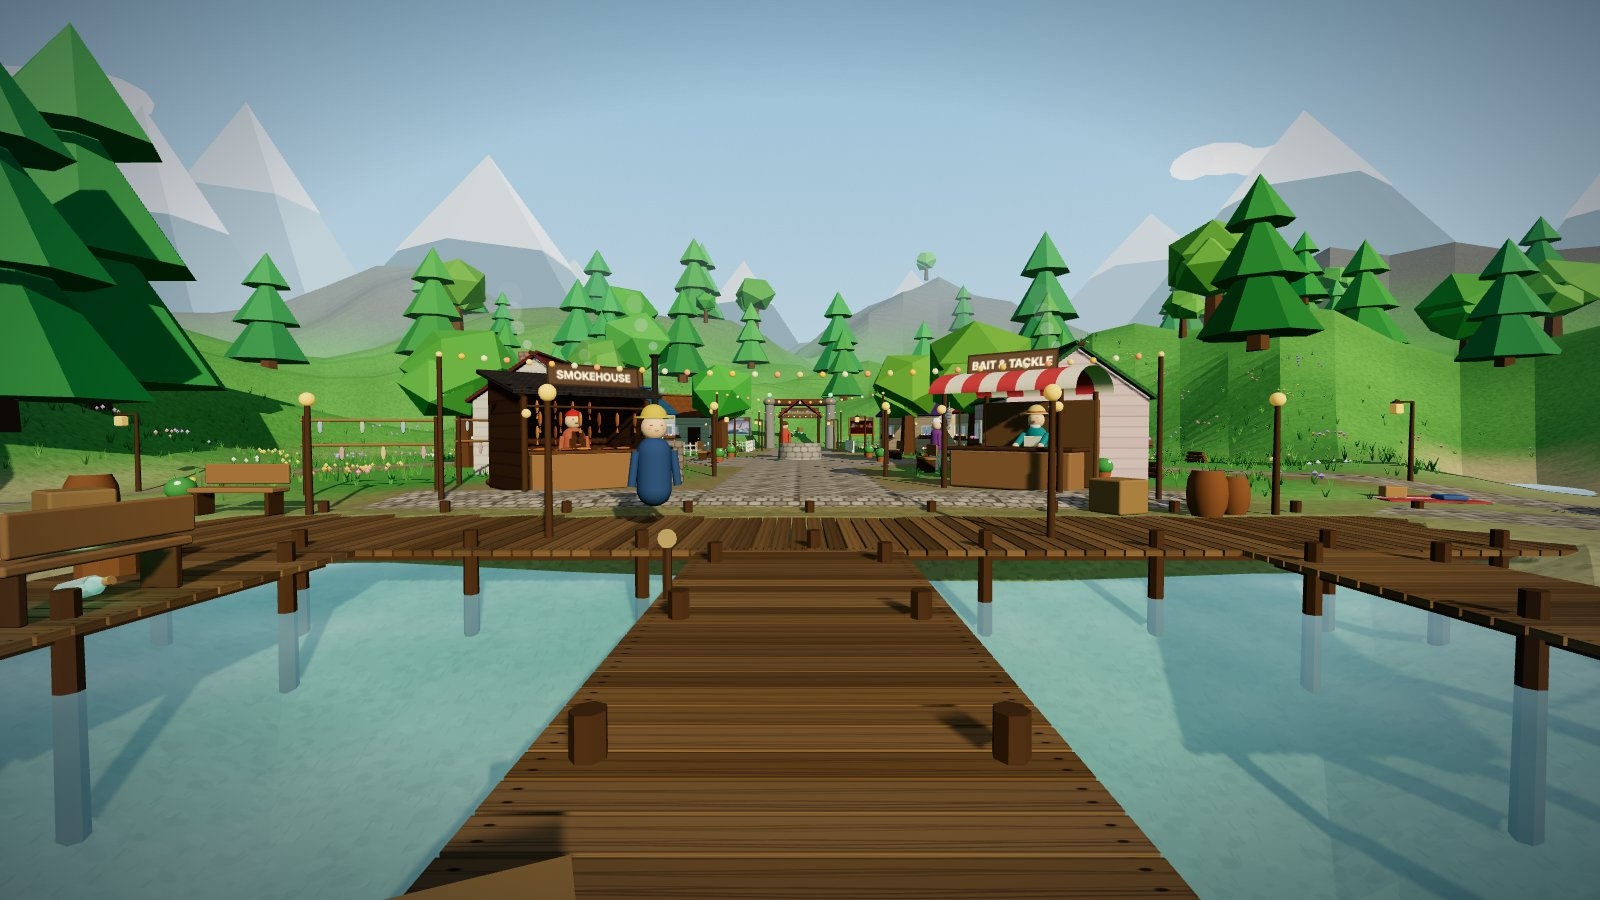
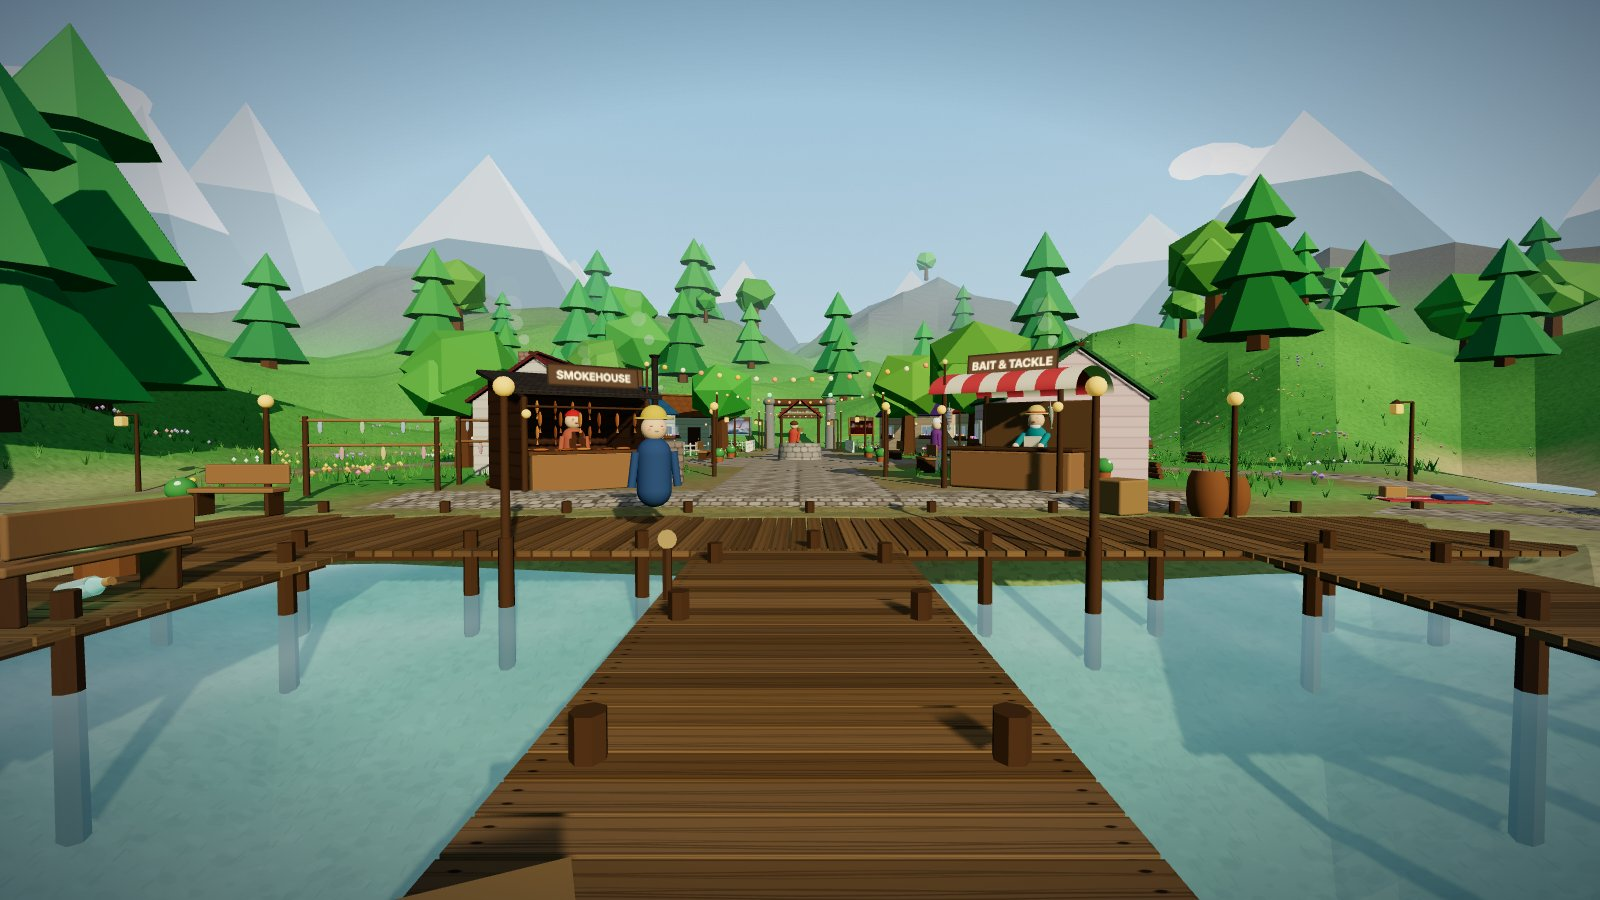
Clear walkways on the quay: the barrel and crate at the top of the campfire ramp removed; the dock's three lamps (the quay's front pair and the east jetty's) stand on their own piles in the water a step off the deck, the quay's rear pair are tucked beside the stall's barrels and behind the east benc

diff --git a/scripts/map-plan.ts b/scripts/map-plan.ts
@@ -1,0 +1,74 @@
+// A top-down plan of the lakeside map with every collider drawn on it, staged headlessly: for checking that props
+// don't stand in the way where players walk. Red rings are the props' colliders, the faint ring round each is where
+// the player's body (0.35 m) stops, and the grid is 2 m with labels every 4 m (lake at the top, +x to the right).
+//
+//   npx tsx scripts/map-plan.ts <out.jpg> [centre x] [centre z] [metres top to bottom]   default: the quay (0, 10, 26)
+//
+// Runs the game offline (no server), so nothing is saved. Prints the colliders in view as [x, z, r].
+// MAP_PORT picks another port, so two checkouts can stage plans at once.
+import fs from 'node:fs';
+import puppeteer from 'puppeteer-core';
+import { createServer } from 'vite';
+import { TIP_IDS } from '../src/game/tips';
+import { newSave } from '../src/game/state';
+
+const CHROME = process.env.CHROME_PATH ?? '/Applications/Google Chrome.app/Contents/MacOS/Google Chrome';
+const [out, cxArg, czArg, spanArg] = process.argv.slice(2);
+const cx = Number(cxArg ?? 0);
+const cz = Number(czArg ?? 10);
+const span = Number(spanArg ?? 26);
+const sleep = (ms: number) => new Promise((r) => setTimeout(r, ms));
+
+const PORT = Number(process.env.MAP_PORT ?? 5297);
+const vite = await createServer({ server: { port: PORT, strictPort: true }, logLevel: 'error' });
+await vite.listen();
+const browser = await puppeteer.launch({ executablePath: CHROME, headless: true, args: ['--use-angle=metal', '--enable-gpu', '--ignore-gpu-blocklist'] });
+try {
+  const page = await browser.newPage();
+  page.on('pageerror', (e) => console.error(`page error: ${e.message}`));
+  await page.setViewport({ width: 1600, height: 900 });
+  await page.evaluateOnNewDocument('globalThis.__name = (f) => f');
+  await page.evaluateOnNewDocument(() => localStorage.setItem('fishing-news', String(Number.MAX_SAFE_INTEGER)));
+  await page.evaluateOnNewDocument((save) => localStorage.setItem('fishing-game-save', save), JSON.stringify({ ...newSave(), tips: [...TIP_IDS], held: 4 }));
+  await page.goto(`http://localhost:${PORT}/`, { waitUntil: 'load' });
+  await page.waitForFunction(() => (window as any).__game);
+  await page.click('#join-offline');
+  await page.waitForFunction(() => document.getElementById('join')?.classList.contains('hidden'), { timeout: 20000 });
+  await page.evaluate(() => (window as any).__game.activate());
+  await sleep(1500);
+  await page.evaluate(`window.__game.teleport(0, 30); window.__game.day(0.3);`);
+  await sleep(1200);
+  const res = (await page.evaluate(`(() => {
+    const G = window.__game; const w = G.world;
+    const W = w.renderer.domElement.width, H = w.renderer.domElement.height;
+    const cam = w.camera.clone();
+    const fov = 12; const span = ${span};
+    const h = span / 2 / Math.tan((fov / 2) * Math.PI / 180);
+    cam.fov = fov; cam.aspect = W / H; cam.near = 1; cam.far = h + 200;
+    cam.position.set(${cx}, h, ${cz}); cam.up.set(0, 0, -1); cam.lookAt(${cx}, 0, ${cz}); cam.updateProjectionMatrix(); cam.updateMatrixWorld();
+    const fog = w.scene.fog; w.scene.fog = null;
+    w.renderer.render(w.scene, cam);
+    w.scene.fog = fog;
+    const c = document.createElement('canvas'); c.width = W; c.height = H;
+    const g = c.getContext('2d'); g.drawImage(w.renderer.domElement, 0, 0);
+    const px = (x, z) => { const v = cam.position.clone().set(x, 0.7, z).project(cam); return [(v.x + 1) / 2 * W, (1 - v.y) / 2 * H]; };
+    const scale = px(1, 0)[0] - px(0, 0)[0];
+    const cs = w.colliders.filter((k) => Math.abs(k.x - ${cx}) < span && Math.abs(k.z - ${cz}) < span);
+    for (const k of cs) {
+      const [x, y] = px(k.x, k.z);
+      g.strokeStyle = 'rgba(255,255,255,0.75)'; g.lineWidth = 1; g.beginPath(); g.arc(x, y, (k.r + 0.35) * scale, 0, 7); g.stroke();
+      g.strokeStyle = 'red'; g.lineWidth = 2; g.beginPath(); g.arc(x, y, k.r * scale, 0, 7); g.stroke();
+    }
+    // A 2 m grid with labels every 4 m.
+    g.font = '12px sans-serif'; g.fillStyle = 'white';
+    for (let x = Math.ceil((${cx} - span) / 2) * 2; x <= ${cx} + span; x += 2) { const [a] = px(x, 0); g.strokeStyle = x % 4 ? 'rgba(255,255,255,0.08)' : 'rgba(255,255,255,0.22)'; g.beginPath(); g.moveTo(a, 0); g.lineTo(a, H); g.stroke(); if (x % 4 === 0) g.fillText('x' + x, a + 2, 12); }
+    for (let z = Math.ceil((${cz} - span) / 2) * 2; z <= ${cz} + span; z += 2) { const [, b] = px(0, z); g.strokeStyle = z % 4 ? 'rgba(255,255,255,0.08)' : 'rgba(255,255,255,0.22)'; g.beginPath(); g.moveTo(0, b); g.lineTo(W, b); g.stroke(); if (z % 4 === 0) g.fillText('z' + z, 2, b - 2); }
+    return { url: c.toDataURL('image/jpeg', 0.9), cs: cs.map((k) => [+k.x.toFixed(2), +k.z.toFixed(2), +k.r.toFixed(2)]) };
+  })()`)) as { url: string; cs: number[][] };
+  fs.writeFileSync(out, Buffer.from(res.url.split(',')[1], 'base64'));
+  console.log(JSON.stringify(res.cs));
+} finally {
+  await browser.close();
+  await vite.close();
+}
+process.exit(0);

diff --git a/src/game/hub.ts b/src/game/hub.ts
@@ -2,7 +2,7 @@ import * as THREE from 'three';
 import { RoundedBoxGeometry } from 'three/examples/jsm/geometries/RoundedBoxGeometry.js';
 import { FISH } from '../data/content';
 import type { MapDef, Spot } from '../data/maps';
-import { groundHeight, standHeight } from './env';
+import { DOCK_TOP, groundHeight, standHeight } from './env';
 import { mergeStatic } from './merge';
 import { glowTag } from './nightglow';
 import { buildFish } from './fishmodel';
@@ -394,12 +394,17 @@ export class Hub {
   }
 
   private buildProps(): void {
-    // Lamp posts on the quay and jetty, up the main street to the square, and one each at Reed's lane and the top of
-    // the campfire ramp, on its water side, where it stays out of the view down the ramp to the boards
-    // (docs/map-rework/harbour.json; the village's own posts are in town.ts). Five carry a point light.
-    const lit = new Set(['-4,11.2', '4,11.2', '8.3,4.5', '3.6,27.5', '-19,5']);
-    const posts = [[-4, 11.2], [4, 11.2], [-9.5, 13.8], [9.8, 13.8], [8.3, 4.5], [-2.8, 22], [2.8, 22], [3.6, 27.5], [-3.6, 27.5], [-19, 5], [12.2, 9.4]];
-    for (const [x, z] of posts) {
+    // Lamp posts. None stands where players walk. The dock's three (the quay's front either side of the pier, and the
+    // east jetty's end) stand on their own piles in the water, a step off the deck's edge, out of reach, so they
+    // need no collider. The quay's rear two are tucked against things that are solid already: the barrels by the
+    // stall, and the back of the bench at the east end. The rest stand beside the cobbles: up the main street to
+    // the square, at Reed's lane and at the top of the campfire ramp, on its water side, where it stays out of the
+    // view down the ramp to the boards (the village's own posts are in town.ts). Five carry a point light.
+    // Play-test: the spots.
+    const piles = [[-4, 9.7], [4, 9.7], [9.05, 4.5]];
+    const lit = new Set(['3.6,27.5', '-19.6,5.2']);
+    const posts = [[-8.45, 13.5], [11.2, 14.5], [-2.8, 22], [2.8, 22], [3.6, 27.5], [-3.6, 27.5], [-19.6, 5.2], [12.2, 9.4]];
+    const lampPost = (x: number, z: number, light: boolean, pile: boolean) => {
       const lamp = new THREE.Group();
       const pole = cyl(0.05, 0.07, 2.2, DARK, 8);
       pole.position.y = 1.1;
@@ -410,28 +415,37 @@ export class Hub {
       bulb.position.y = 2.3;
       glowTag(bulb, 0.75);
       lamp.add(pole, bulb);
-      if (lit.has(`${x},${z}`)) {
+      if (light) {
         const l = new THREE.PointLight(0xffc266, 0, 13, 1.6);
         l.position.y = 2.2;
         lamp.add(l);
         this.lampLights.push(l);
       }
-      this.place(lamp, { x, z, facing: 0 });
-      this.fixed.push({ x, z, r: 0.2 });
-    }
-    // Barrels and crates on the quay deck: a working waterfront, by the stall's end of the quay and at its east corner.
+      if (pile) {
+        // A pile like the dock's own (world.ts), its head a little above the deck.
+        const post = cyl(0.1, 0.12, 3.1, 0x5b4128, 7);
+        post.position.y = -0.6 - DOCK_TOP;
+        lamp.add(post);
+      }
+      this.place(lamp, { x, z, facing: 0 }, 0, 0, pile ? DOCK_TOP : undefined);
+      if (!pile) this.fixed.push({ x, z, r: 0.2 });
+    };
+    for (const [x, z] of piles) lampPost(x, z, true, true);
+    for (const [x, z] of posts) lampPost(x, z, lit.has(`${x},${z}`), false);
+    // Barrels and a crate on the quay deck by the stall's end: a working waterfront. The east corner stays clear,
+    // as the campfire ramp leaves the quay there.
     const barrelGeo = new THREE.LatheGeometry(
       [[0.26, 0], [0.34, 0.2], [0.36, 0.45], [0.34, 0.7], [0.26, 0.9]].map(([x, y]) => new THREE.Vector2(x, y)),
       14,
     );
-    for (const [x, z, s] of [[-8, 13.6, 1], [-8.7, 13.9, 0.85], [12.6, 12.4, 1]]) {
+    for (const [x, z, s] of [[-8, 13.6, 1], [-8.7, 13.9, 0.85]]) {
       const b = new THREE.Mesh(barrelGeo, mat(0x8a5a30));
       b.scale.setScalar(s);
       b.castShadow = true;
       this.place(b, { x, z, facing: 0 });
       this.fixed.push({ x, z, r: 0.38 * s });
     }
-    const crates = [[-6.5, 14.1, 0.4], [12.1, 11.7, 1.1]] as const;
+    const crates = [[-6.5, 14.1, 0.4]] as const;
     for (const [x, z, rot] of crates) {
       const c = rbox(0.8, 0.7, 0.8, 0x9c7a4a, 0.05);
       this.place(c, { x, z, facing: rot }, 0, 0, standHeight(x, z) + 0.35);

diff --git a/src/game/town.ts b/src/game/town.ts
@@ -968,15 +968,20 @@ export class Town {
     this.at(g, x, z, facing);
   }
 
-  /** A string of bulbs between two posts `h` tall, from (ax, az) to (bx, bz). */
-  private stringLights(ax: number, az: number, bx: number, bz: number, h: number): void {
+  /**
+   * A string of bulbs from (ax, az) to (bx, bz), `h` above the ground at each end. It hangs between two posts of
+   * its own, or, given `masts` (the height above the ground where each one starts), from thin masts on top of
+   * something that stands there already, which leaves nothing new to walk round.
+   */
+  private stringLights(ax: number, az: number, bx: number, bz: number, h: number, masts?: [number, number]): void {
     // A bulb about every half metre, with the sag of a short string.
     const n = Math.max(8, Math.round(Math.hypot(bx - ax, bz - az) * 2));
-    for (const [x, z] of [[ax, az], [bx, bz]]) {
-      const post = cyl(0.05, 0.06, h, DARK, 6);
-      this.at(post, x, z, 0, groundHeight(x, z) + h / 2);
-      this.solid(x, z, 0.15);
-    }
+    [[ax, az], [bx, bz]].forEach(([x, z], i) => {
+      const from = masts?.[i] ?? 0;
+      const post = masts ? cyl(0.03, 0.035, h - from, DARK, 6) : cyl(0.05, 0.06, h, DARK, 6);
+      this.at(post, x, z, 0, groundHeight(x, z) + (h + from) / 2);
+      if (!masts) this.solid(x, z, 0.15);
+    });
     // Straight from one post top to the other, so a string across a slope hangs like one.
     const ya = groundHeight(ax, az) + h;
     const yb = groundHeight(bx, bz) + h;
@@ -1012,11 +1017,23 @@ export class Town {
     this.pot(12.5, 13.95);
     // A picnic blanket on the slope above Reed's lane (the campfire headland is too narrow for a second one).
     this.blanket(-15, 16.5, -0.3);
-    // String lights across the quay's rear in front of the stalls, over the square, at the gate, and over the campfire
-    // from its lake side to its quay side, the posts behind the benches on the circle's rim. The string is turned a
-    // little off north-south so, seen from the ramp, the quay post stands just clear of Top Anglers instead of in
-    // front of it. Play-test: the posts and the height.
-    this.stringLights(-8, 15.3, 8, 15.3, 3.3);
+    // String lights over the mouth of the main street between the two stalls, over the square, at the gate, and over
+    // the campfire from its lake side to its quay side, the posts behind the benches on the circle's rim. The
+    // stalls' string hangs from masts on their street-side front posts (Marlow's stall in hub.ts, `buildSmokehouse`),
+    // so no post stands on the quay road. The campfire's is turned a little off north-south so, seen from the ramp,
+    // the quay post stands just clear of Top Anglers instead of in front of it. Play-test: the posts and the height.
+    const sh = this.map.smokehouse;
+    if (sh) {
+      const { shop } = this.map.vendor;
+      const corner = (s: Spot, lx: number, lz: number, top: number): [number, number, number] => {
+        const x = s.x + lx * Math.cos(s.facing) + lz * Math.sin(s.facing);
+        const z = s.z - lx * Math.sin(s.facing) + lz * Math.cos(s.facing);
+        return [x, z, standHeight(s.x, s.z) + top - groundHeight(x, z)];
+      };
+      const [ax, az, a] = corner(shop, -1.5, 0.9, 2.5);
+      const [bx, bz, b] = corner(sh, 3.4 / 2 - 0.08, 0.25, 2.3);
+      this.stringLights(ax, az, bx, bz, 3.3, [a, b]);
+    }
     this.stringLights(-4, 32, 4, 32, 3.3);
     this.stringLights(-3.4, 54.5, 3.4, 54.5, 3.1);
     const fire = this.map.campfire;

diff --git a/scripts/map-views.ts b/scripts/map-views.ts
@@ -14,7 +14,8 @@ import { newSave } from '../src/game/state';
 import { MAPS } from '../src/data/maps';
 
 const CHROME = process.env.CHROME_PATH ?? '/Applications/Google Chrome.app/Contents/MacOS/Google Chrome';
-const VITE_PORT = 5298;
+// MAP_PORT picks another port, so two checkouts can stage views at once.
+const VITE_PORT = Number(process.env.MAP_PORT ?? 5298);
 const [outArg, ...only] = process.argv.slice(2);
 if (!outArg) {
   console.error('usage: npx tsx scripts/map-views.ts <out dir> [view ...]');

diff --git a/DONE.md b/DONE.md
@@ -2,6 +2,19 @@
 
 Finished TODO items, newest first, with what was decided and how each was checked. Add new ones at the top.
 
+- [x] Clear walkways on the quay: the east end's barrel and crate removed, the lamp posts and string-light posts moved off the boards and the quay road (Oscar, 2026-11-13; done 2026-11-13, branch `quay-east-clear`)
+  - Oscar, in two asks: the barrels and boxes before the campfire area with the boards were blocking the path, so remove them; many of the light poles on the dock stand in the middle of the boardwalk and interrupt movement, so move them to the water's edge or a better spot
+  - Removed: the barrel at (12.6, 12.4) and the crate at (12.1, 11.7), which stood solid on the cobbles where the campfire ramp leaves the quay's east end. The two barrels and the crate by Marlow's stall stay
+  - The dock's three lamps (the lit pair on the quay's deck at x ±4, 1.2 m in from the front, and the east jetty's end) now stand on their own piles in the water, 0.3 m off the deck's edge: (±4, 9.7) and (9.05, 4.5). Players can't reach them, so they have no collider and nothing stands on the boards. They were in the straight lines from the pier to Reed's lane and to the campfire ramp, and the jetty's took a corner of its casting end
+  - The quay's rear two lamps are tucked against things that are solid already, so they add nothing to walk round: the west one between the stall's two barrels (-8.45, 13.5), the east one behind the back of the bench (11.2, 14.5)
+  - The string lights in front of the stalls had a post at each end standing on the quay road, (±8, 15.3). The string now hangs over the mouth of the main street between the two stalls, from thin masts on their street-side front posts, like the strings over the square and at the gate; no posts, no colliders (`stringLights` takes `masts`, `src/game/town.ts`)
+  - Reed's lane: its lamp stood 0.2 m inside the cobbles' west edge at (-19, 5); it's now 0.4 m off them at (-19.6, 5.2). The lamps up the main street, by the square and beside the ramp already stood off the cobbles and stay
+  - Tooling: `npx tsx scripts/map-plan.ts <out.jpg>` stages a top-down plan of the map with every collider and the player's reach round it drawn on, which is how the routes were checked
+  - Docs: GAME_DESIGN.md's Coziness line. README: the harbour and outfits photos showed the removed pair and the lamps on the deck, so both shots were re-taken (`docs/images/harbour.jpg`, `outfits.jpg`); in the outfits photo the two lamps at the water's edge now sit half out of frame at its left and right edges
+  - Checked: the build, 592 tests and smoke 113/113; the plan before and after, and headless views by day and night on desktop and phone (`scripts/map-views.ts`: w04, w05, w06, w07, w08, r01, r02, w10, j02, n01, n03, jetty, bench, night)
+  - Play-test: the lamps on piles beside the deck (0.3 m off the edge, so a player at the edge stands right beside one); the lamp among the barrels and the one behind the bench; the string across the street mouth instead of along the quay, and its masts (Marlow's comes up through the awning's edge, the Smokehouse's through its roof corner); Reed's lamp
+  - Found and filed in TODO.md, not done: the crate by Marlow's stall leaves about 0.6 m of quay road to pass; pile heads poke out of the sand at the quay's east end; `npm run screenshots -- outfits` timed out joining its eight players
+
 - [x] 🎨 Tip nudge at level milestones, a follow-up to the tip jar (done 2026-11-13, branch `tip-nudge`)
   - Oscar's picks from the options shown that day: players already past a milestone see it once, after their next level-up (not on joining, not never); it opens after the milestone catch, once the fish is released and the rank banner has gone, and waits for the pond when it comes due at sea or in the casino; the short, plain wording, the same at every milestone (over a warmer one naming the rank and a different line per milestone). No What's new entry: it isn't a feature
   - Built: a small card in the What's new card's paper window, "☕ Enjoying Lakeside?": "The server costs money to run. If you'd like to help keep it going, you can leave a tip." / "Tips give nothing in game, only a 💗 by your name." with a gold ☕ Tip on Ko-fi link (new tab) and a plain Keep fishing button; Esc and ✕ close it too. It shows at most once per milestone (20, 30, 50), never for supporters and never offline

diff --git a/TODO.md b/TODO.md
@@ -53,6 +53,7 @@ Finished items move to [DONE.md](DONE.md).
 
 ### Bugs and tooling
 
+- `npm run screenshots -- outfits` timed out on 2026-11-13 (three tries): it joins eight players one after another, and from the fourth on each page took 30-110 s to load, past puppeteer's 30 s navigation limit in `join` (`scripts/screenshots.ts`). The first three loaded in 1.5-3 s. It passed with the limit raised to 150 s for one run. Oscar's dev server and a browser tab on the game were running at the time, so it may only be the machine; if it happens on a quiet machine, raise the limit or find what slows the later pages
 - `npm run smoke` only runs on a Mac as is: `CHROME_PATH` defaults to the macOS Chrome and it launches with `--use-angle=metal`. On Linux (cloud sessions) it needs a wrapper that adds `--no-sandbox` and SwiftShader, and even then slow software frames fail ~8 timing checks (townsfolk walks, reel fights, roulette pacing) and the offline checks time out. A Linux-friendly launch and longer timeouts there would let cloud sessions run it.
 - The bench scenes have no high-tier fish, so they can't measure the fish tier effects
 - Out-of-date text found while updating the README (2026-11-13): the campfire tip "the Lucky Wheel in Casino Cove can make a fish worth four times as much" (`CAMP_TIPS`, `src/game/game.ts`; the wheel's best wedge is ×5 now, `WHEEL_WEDGES`), and GAME_DESIGN.md §38.1 (charters) and §38.2 (charter spices, packing) still describe the charters as planned before the rework and the shelved spices
@@ -93,6 +94,7 @@ Finished items move to [DONE.md](DONE.md).
 
 - 🎨 📋 Sloped harbour town: tilt the town pad so the main street climbs 2-3 m from the quay to the gate and the upper street looks over the roofs to the cove (today the pad is flat and the lake is hidden from the square and the gate). Every placed thing takes its height from the ground, so it needs a plan; comes after the map rework merges
 
+- 🎨 The crate by Marlow's stall narrows the quay road (found moving the quay's lamps, 2026-11-13): between the crate at (-6.5, 14.1) on the deck's rear edge and the stall, a player has about 0.6 m to pass, so walking west along the road from Marlow's counter to Reed's lane snags there. Sliding the crate about a metre toward the water, or west beside the barrels, would open it (`buildProps`, `src/game/hub.ts`; `npx tsx scripts/map-plan.ts` draws the colliders from above). Also at the quay's east end: the dock's pile heads poke out of the sand where the deck is buried, one of them in the cobbles at the top of the campfire ramp (they can be walked through)
 - 🎨 Townsfolk follow the day: head indoors at night (Granny Wren to her cottage) or gather at the campfire; their walks could take a different loop after dark (`nightLines` already exists for talk)
 - 🎨 Level 3 of the visual polish options (https://claude.ai/artifact/4rfm9mFjxTXaYms9thDuUc): a soft foam line just offshore and lighter shallows (a baked shore-distance texture read by the water shader), small round bushes along the shore and hillsides, slightly richer greens. Each piece could ship on its own
 - 🎨 The backs of Top Anglers and Thanks at the campfire (from the community area, 2026-11-13): from the ring lane up the hill the boards show plain dark backs. A carving, a lantern or a notice pinned there could dress them, if it bothers anyone in play

diff --git a/GAME_DESIGN.md b/GAME_DESIGN.md
@@ -353,7 +353,7 @@ The land hub is a small cozy fishing town wrapped around a cove like a harbour: 
 
 - **Townsfolk**: Old Salty (pier tips), Pip, Granny Wren and Captain Reed. Press E to talk; lines cycle and some change at night.
 - **Messages in bottles**: 7 hidden around town, shore and pier. Each pays 40 coins once; finding all 7 pays a 300 coin bonus. Found bottles are saved per account (`SaveData.bottles`); the server verifies the player is within 4 m.
-- **Coziness**: lantern posts line the quay, the street and the lanes (eight cast real light at night), benches and planters ring the plaza, string lights span the quay's rear, the square, the gate and the campfire's circle, a bench on the east jetty looks across the water to the campfire, a picnic blanket overlooks Reed's lane, and firewood is stacked by Wren's Cottage. Bottles rest on the ground or the deck; the rowboat is moored beside the west jetty.
+- **Coziness**: lantern posts line the quay, the street and the lanes (eight cast real light at night); none stands on a walkway: the quay's front pair and the east jetty's stand on piles in the water a step off the deck's edge, the quay's rear pair are tucked against the stall's barrels and behind the east bench, and the rest stand beside the cobbles. Benches and planters ring the plaza, string lights span the mouth of the main street between the two stalls (from masts on the stalls, no posts on the quay road), the square, the gate and the campfire's circle, a bench on the east jetty looks across the water to the campfire, a picnic blanket overlooks Reed's lane, and firewood is stacked by Wren's Cottage. Bottles rest on the ground or the deck; the rowboat is moored beside the west jetty.
 
 ## 27. Night fishing
 
